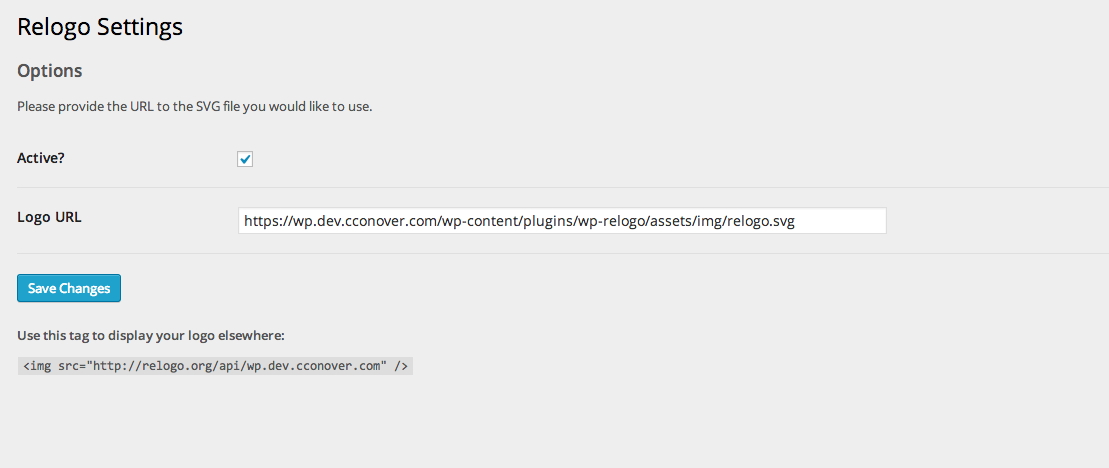
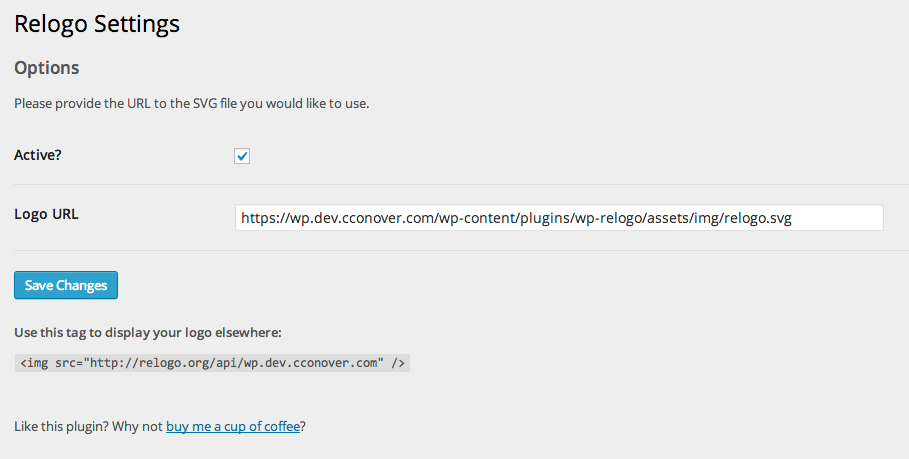
Tagging version 0.4.2
git-svn-id: https://plugins.svn.wordpress.org/relogo/tags/0.4.2@811559 b8457f37-d9ea-0310-8a92-e5e31aec5664

diff --git a/admin/wp-relogo-admin.php b/admin/wp-relogo-admin.php
@@ -36,7 +36,7 @@ function cc_relogo_admin_init() {
 		'cc_relogo_active_callback',		// Callback function to display the field
 		'cc-relogo',						// Page ID for the options page
 		'options'							// Settings section in which to display the field
-	);	
+	);
 	add_settings_field(						// Logo URL
 		'logourl',
 		'Logo URL',
@@ -163,6 +163,9 @@ function cc_relogo_options_page() {
 		<?php
 		cc_relogo_api_imgtag(); // Display API-based <img> tag
 		?>
+		<br />
+		<!-- Button to donate Bitcoins -->
+		<p>Like this plugin? Why not <a href="https://christiaanconover.com/code/wp-relogo#donate" target="_blank">buy me a cup of coffee</a>?</p>
 	</div>
 	
 	<?php	

diff --git a/wp-relogo.php b/wp-relogo.php
@@ -3,7 +3,7 @@
 Plugin Name: Relogo
 Plugin URI: https://christiaanconover.com/code/wp-relogo
 Description: Add support for the rel="logo" tag to your site, in accordance with the spec published at <a href="http://relogo.org">relogo.org</a>. <strong>This requires your logo in SVG format.</strong>
-Version: 0.4.1
+Version: 0.4.2
 Author: Christiaan Conover
 Author URI: https://christiaanconover.com
 License: GPLv2
